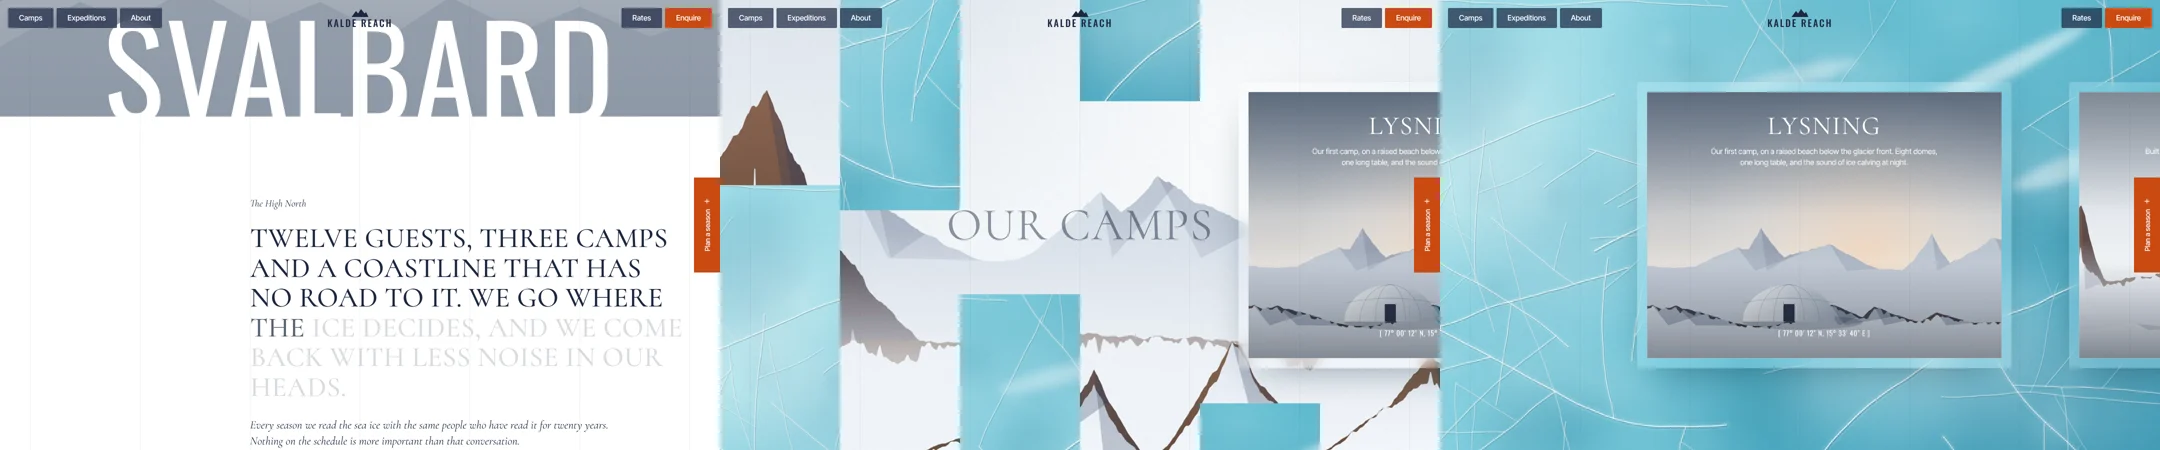
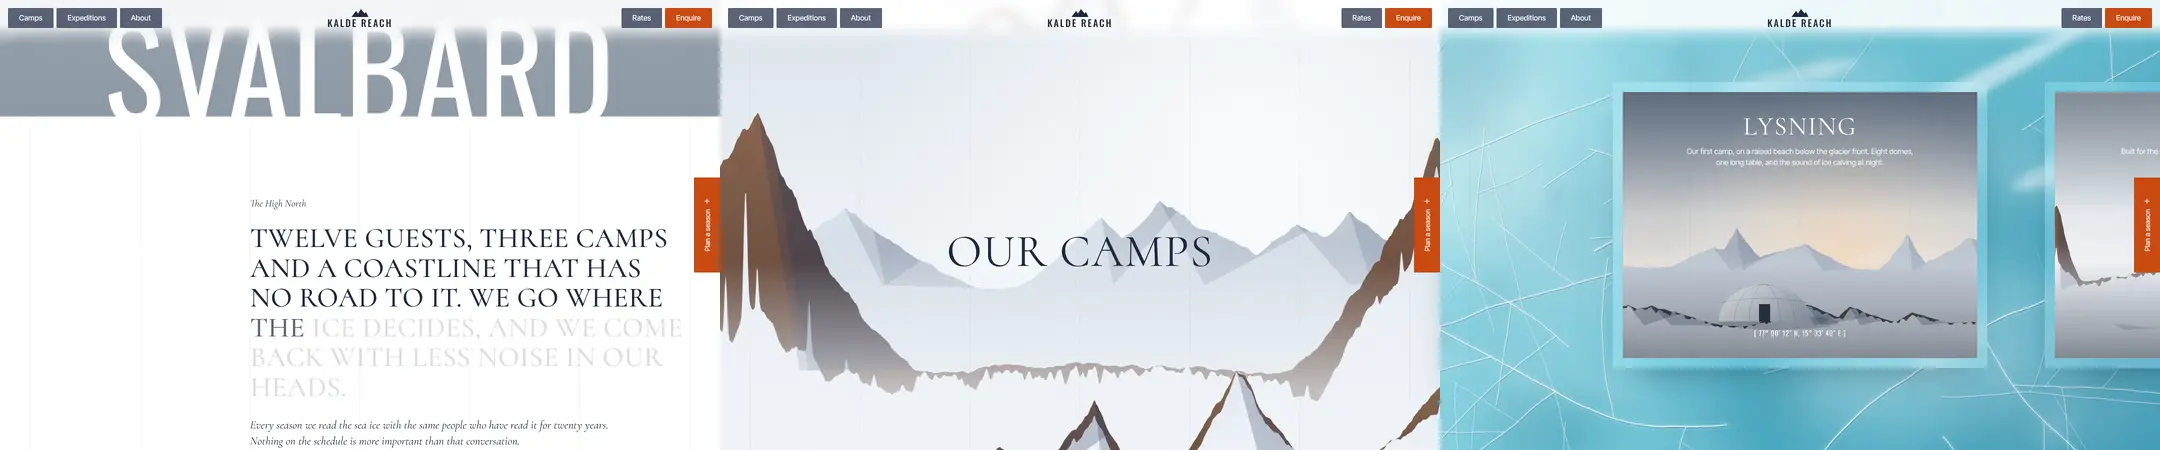
Improve scroll-scrub-story-skill: 37 → 38/40 (camp cards hold centred, header band)
Pinned card track now holds each card centred and only moves between
holds, starting fully off screen; the fixed header gets a frosted band so
headlines no longer run through the logo. verify-demo learned a
fixed-chrome check that fails when page text sits under unbacked text in
a fixed element.

Claude-Session: https://claude.ai/code/session_01XdASbRog22jE6xUYCS6WyS

Changed region(s): [[0.0, 0.0, 0.6824, 1.0], [0.7444, 0.1867, 1.0, 0.8089], [0.6514, 0.0, 1.0, 0.0933]]

diff --git a/skills/scroll-scrub-story-skill/demo/index.html b/skills/scroll-scrub-story-skill/demo/index.html
@@ -51,6 +51,13 @@
     position: fixed; inset: 16px 16px auto; z-index: 50;
     display: grid; grid-template-columns: 1fr auto 1fr; align-items: center;
   }
+  /* A frosted band behind the fixed header: headlines and cards scroll under the logo, never through it */
+  .top::before {
+    content: ''; position: fixed; inset: 0 0 auto; height: 96px; z-index: -1; pointer-events: none;
+    background: linear-gradient(color-mix(in srgb, var(--paper) 88%, transparent) 50%, transparent);
+    -webkit-backdrop-filter: blur(10px); backdrop-filter: blur(10px);
+    -webkit-mask: linear-gradient(#000 55%, transparent); mask: linear-gradient(#000 55%, transparent);
+  }
   .chips { display: flex; gap: 6px; }
   .chips:last-child { justify-content: flex-end; }
   .chip {
@@ -167,11 +174,15 @@
   .motion .camps__note { position: absolute; left: 0; right: 0; bottom: 7vh; margin: 0 auto; opacity: clamp(0, calc(var(--a) * 4 - 3 - var(--b) * 6), 1); }
   .motion .camps__track {
     position: absolute; top: 50%; left: var(--start); display: flex; gap: var(--gap); padding: 0; align-items: center;
-    /* starts peeking in at --start, ends with the last card centred: travel = start - 50vw + (n - 1)(card + gap) + card / 2 */
-    transform: translate(calc(var(--b) * -1 * (var(--start) - 50vw + (var(--n) - 1) * (var(--cw) + var(--gap)) + var(--cw) / 2)), -50%);
+    /* Enter, then hold each card centred for a reading stretch; cards only move between holds.
+       --e brings card 1 from --start to the centre; --m1, --m2 each slide one card width + gap. */
+    --e: clamp(0, calc(var(--b) / .2), 1);
+    --m1: clamp(0, calc((var(--b) - .36) / .2), 1);
+    --m2: clamp(0, calc((var(--b) - .72) / .2), 1);
+    transform: translate(calc(-1 * (var(--e) * (var(--start) - 50vw + var(--cw) / 2) + (var(--m1) + var(--m2)) * (var(--cw) + var(--gap)))), -50%);
   }
   .motion .frost { flex: none; width: var(--cw); }
-  .camps { --cw: min(52vw, 760px); --gap: 8vw; --n: 3; --start: 72vw; }
+  .camps { --cw: min(52vw, 760px); --gap: 8vw; --start: 100vw; } /* starts fully off screen: a peeking card would share the screen with the title. Three cards: holds at b .2–.36, .56–.72, .92–1 */
 
   /* ---------- Trips: panels that open on hover / focus ---------- */
   .trips { padding: clamp(110px, 16vh, 170px) var(--gutter) clamp(90px, 12vh, 140px); }
@@ -222,7 +233,8 @@
     .hero__line { top: 34%; }
     .hero__film { top: auto; left: var(--gutter); right: auto; bottom: 30%; }
     .letter__inner { margin-left: 0; }
-    .camps { --cw: 84vw; --gap: 6vw; --start: 88vw; }
+    .camps { --cw: 84vw; --gap: 6vw; }
+    .top::before { height: 76px; }
     .motion .camps__strips { grid-template-columns: repeat(6, 1fr); }
     .card { aspect-ratio: 3 / 4; }
     .trips__head, .enquire__grid { grid-template-columns: 1fr; }

diff --git a/skills/scroll-scrub-story-skill/SKILL.md b/skills/scroll-scrub-story-skill/SKILL.md
@@ -20,7 +20,7 @@ Use this skill when the brief says: "story", "chapters", "cinematic", "luxury", 
 3. **Initial value 1 is the safety net.** With no JS, no support, or reduced motion, `--p` stays at 1 and every section shows its finished state. Nothing can get stuck invisible.
 4. **Light words, do not move them.** Statement words go from opacity 0.16 to 1, three words of overlap (`p * (n + 3) - i`). No slide, no blur, no per-letter split: the sentence stays readable as a block from the first pixel.
 5. **Pin once.** One pinned scene per page, about 5 viewports tall (`520svh`). Pins everywhere feel like a slideshow you cannot skip.
-6. **Phases inside the pin.** Split the pinned `--p` into named sub-ranges in CSS: `--a` = strips wipe (0 to 0.28), `--b` = card track (0.26 to 1). The overlap means something is always moving; a stretch of empty frame reads as broken.
+6. **Phases inside the pin, holds inside the phases.** Split the pinned `--p` into named sub-ranges in CSS: `--a` = strips wipe (0 to 0.28), `--b` = card track (0.26 to 1). The overlap means the frame is never empty. Inside the track, each card holds centred for a stretch of scroll (`b` 0.2 to 0.36, 0.56 to 0.72, 0.92 to 1) and only moves between holds: a track that glides linearly parks the reader on two half-cut cards at most scroll positions. For n cards, use one `--m` per card after the first and split `b` into an entry, n holds and n - 1 moves of about equal length.
 7. **Strips alternate.** Six vertical strips, odd ones from below and even ones from above (`--dir: ±1`), staggered by 0.12 of the phase each. Each strip shows its own slice of the incoming image (`background-position: calc(k * -100vw / 6)`), so together they assemble one picture, not six.
 8. **The frame opens, the photo settles.** The inset image's `clip-path: inset()` shrinks from 9 percent and a gutter-wide side margin to 0, while the image inside scales from 1.14 to 1. Two opposite movements read as depth.
 9. **Type pairing does the luxury.** A tall condensed sans for the place name (Oswald 400, 17.6vw, letter-spacing 0.02em, cropped by the fold), a high-contrast serif for statements and titles (Cormorant 500, uppercase), and a neutral grotesk for UI (Inter Tight 500, 15px). Italic serif for captions and asides.
@@ -167,18 +167,35 @@ The pinned scene. Everything under `.motion` only applies when JS confirmed that
 .motion .camps__note { position: absolute; left: 0; right: 0; bottom: 7vh; margin: 0 auto; opacity: clamp(0, calc(var(--a) * 4 - 3 - var(--b) * 6), 1); }
 .motion .camps__track {
   position: absolute; top: 50%; left: var(--start); display: flex; gap: var(--gap); padding: 0; align-items: center;
-  /* starts peeking in at --start, ends with the last card centred: travel = start - 50vw + (n - 1)(card + gap) + card / 2 */
-  transform: translate(calc(var(--b) * -1 * (var(--start) - 50vw + (var(--n) - 1) * (var(--cw) + var(--gap)) + var(--cw) / 2)), -50%);
+  /* Enter, then hold each card centred for a reading stretch; cards only move between holds.
+     --e brings card 1 from --start to the centre; --m1, --m2 each slide one card width + gap. */
+  --e: clamp(0, calc(var(--b) / .2), 1);
+  --m1: clamp(0, calc((var(--b) - .36) / .2), 1);
+  --m2: clamp(0, calc((var(--b) - .72) / .2), 1);
+  transform: translate(calc(-1 * (var(--e) * (var(--start) - 50vw + var(--cw) / 2) + (var(--m1) + var(--m2)) * (var(--cw) + var(--gap)))), -50%);
 }
 .motion .frost { flex: none; width: var(--cw); }
-.camps { --cw: min(52vw, 760px); --gap: 8vw; --n: 3; --start: 72vw; }
+.camps { --cw: min(52vw, 760px); --gap: 8vw; --start: 100vw; } /* starts fully off screen: a peeking card would share the screen with the title. Three cards: holds at b .2–.36, .56–.72, .92–1 */
+```
+
+Fixed header over a scrolling story: give it a band of its own, or headlines and cards scroll straight through the logo (`.top` is the fixed header, `z-index: 50`):
+
+```css
+/* A frosted band behind the fixed header: headlines and cards scroll under the logo, never through it */
+.top::before {
+  content: ''; position: fixed; inset: 0 0 auto; height: 96px; z-index: -1; pointer-events: none;
+  background: linear-gradient(color-mix(in srgb, var(--paper) 88%, transparent) 50%, transparent);
+  -webkit-backdrop-filter: blur(10px); backdrop-filter: blur(10px);
+  -webkit-mask: linear-gradient(#000 55%, transparent); mask: linear-gradient(#000 55%, transparent);
+}
 ```
 
 Mobile overrides:
 
 ```css
-.camps { --cw: 84vw; --gap: 6vw; --start: 88vw; }
+.camps { --cw: 84vw; --gap: 6vw; }
 .card { aspect-ratio: 3 / 4; }
+.top::before { height: 76px; }
 ```
 
 ---
@@ -474,6 +491,9 @@ Painting lessons learned:
 - Words that slide, blur or bounce in. Lighting words is enough.
 - Three pinned sections in a row. One pin, earned.
 - A pinned scene with an empty middle: strips finish, then nothing until the next card. Overlap the phases.
+- A card track that glides at constant speed. Most scroll positions then show two half-cut cards and no readable one. Hold each card centred, move between holds.
+- A card peeking in from the edge while the scene title is still up: two statements on one screen, and on a phone a stray sliver of box. Start the track fully off screen.
+- A transparent fixed header over long editorial copy: the headline runs through the logo.
 - Strips that all move in one direction or each show the whole image (six tiny copies instead of one picture).
 - Text in white on light snow or sky photos with no scrim or chip.
 - `initial-value: 0` on the progress property: no JS or no support leaves the page blank.
@@ -485,14 +505,15 @@ Painting lessons learned:
 
 [`demo/index.html`](demo/index.html) is a complete single-file page for an invented Arctic expedition company, Kalde Reach (Tromsø): fog hero with a huge condensed "SVALBARD", a founder's statement that lights word by word with a drawn signature, an inset landscape that opens to full bleed, a pinned camps scene (landscape replaced by six alternating strips of sea ice, then three frosted camp cards gliding across), expedition panels that open on hover and focus, and an enquiry footer. All imagery is generated on canvas at load.
 
-Verified with `node scripts/verify-demo.mjs skills/scroll-scrub-story-skill/demo` (desktop, mobile and reduced motion; no console errors, no failed requests, no horizontal overflow), plus 36-stop desktop and 22-stop mobile scroll sweeps in native mode, the forced JS fallback, and a reduced-motion sweep through the middle of the page.
+Verified with `node scripts/verify-demo.mjs skills/scroll-scrub-story-skill/demo --stops 16` (desktop, phones at 360/390/430, reduced motion at every stop, forced fallback, host reset, keyboard focus, text under fixed chrome), plus 36-stop desktop and 22-stop mobile scroll sweeps in native mode, the forced JS fallback, and a reduced-motion sweep through the middle of the page.
 
 ![Demo preview](demo/preview.webp)
 
 Lessons learned while building it (already folded into the rules above):
 
 - The first generated landscapes were thin brown bands over streaky snow. Path fills plus poster-style shadow faces fixed both.
-- With the card phase starting after the strips, two whole frames showed empty ice. Starting the track already peeking in at 72vw and overlapping the phases removed the dead stretch.
+- With the card phase starting after the strips, two whole frames showed empty ice. Overlapping the phases removed the dead stretch. (A first fix started the track peeking in at 72vw; the improvement run replaced that with an off-screen start, because the sliver shared the screen with the title.)
+- (Improvement run, 2026-10-09) The track glided linearly, so most mobile stops showed two cut cards. Each card now holds centred for 16 to 8 percent of the track. The fixed header had no backing and headlines scrolled through the logo on phones; it now has a frosted band, and verify-demo fails on text under unbacked fixed chrome.
 - White captions and a white "OUR CAMPS" over light snow failed contrast. Captions moved onto frosted chips, the title went navy with a white glow.
 - A fixed side tab sat on top of the statement on mobile. It is hidden below 820px; the header's Enquire chip covers the same job.
 - In the static (reduced motion) flow, `background-size: cover` stretched the ice across a very tall section and fattened every crack. It now tiles at its native 1600px.
@@ -511,3 +532,5 @@ Before shipping, answer yes to all:
 5. Does every line of text over an image have a scrim or a frosted chip?
 6. Does anchor navigation (`#camps`, `#enquire`) still land correctly, with native scrolling?
 7. Mobile: do the cards fit (84vw), and does nothing fixed sit on top of body copy?
+8. At every stop of a `--stops 30` sweep inside the pin, is there either one whole card centred or a moving transition, never two cut cards held still?
+9. Does the fixed header have its own backing band, so verify-demo's chrome check passes?

diff --git a/lessons/PROTOCOL.md b/lessons/PROTOCOL.md
@@ -51,7 +51,7 @@ In the morning, section 1 is replaced by `NEXT.md` when its date is today and it
 node scripts/verify-demo.mjs skills/<slug>-skill/demo /tmp/verify
 ```
 
-It must print `OK`. It runs desktop, phones at 360/390/430, reduced motion at every scroll stop, and a forced-fallback pass (WebGL unavailable, `CSS.supports()` false), and fails on page errors, console errors, failed requests, horizontal overflow at any stop, any element Tab reaches without a visible focus change, a phone layout viewport wider than the phone, scroll past the end of the content, and a body background or text that changes when a host page styles `<body>`. For pinned or scrubbed sections add `--stops 30`. With ImageMagick installed it writes `sheet-<pass>.jpg` contact sheets, one row per pass.
+It must print `OK`. It runs desktop, phones at 360/390/430, reduced motion at every scroll stop, and a forced-fallback pass (WebGL unavailable, `CSS.supports()` false), and fails on page errors, console errors, failed requests, horizontal overflow at any stop, any element Tab reaches without a visible focus change, a phone layout viewport wider than the phone, scroll past the end of the content, a body background or text that changes when a host page styles `<body>`, and page text that scrolls under unbacked text in fixed chrome. For pinned or scrubbed sections add `--stops 30`. With ImageMagick installed it writes `sheet-<pass>.jpg` contact sheets, one row per pass.
 
 Then **look at every contact sheet, including the fallback and reduced ones** and write down at least three visual flaws (overlaps, unreadable text over busy backgrounds, awkward wraps, dead space, mobile cramping, motion parked mid-transition). Fix them and verify again. Repeat until a fresh look finds nothing worth fixing. Fold what you learned into the skill's "Working Demo" notes so the next agent does not repeat it.
 
@@ -95,3 +95,4 @@ If today taught something about *how* to run these lessons (a better capture tri
 - 2026-10-08 (improve): The new host check (page loaded under a stand-in for a viewer's body reset, every text box compared) found the same dark-text bug in the lesson 001 demo that had only shown on the owner's phone in Mörkerdal. verify-demo's forced fallback only disables WebGL; for a 2D-canvas effect, also look at the page once with `getContext` returning `null`.
 - 2026-10-08 (owner report): The republished Halcyon artifact was a white screen on a desktop. The demo set its dark background on `html` only; the viewer paints its light background on `body`, which covers the root, and the light text vanished on it. The host check only compared text, so it passed. It now compares the body background too and fails on the old demo.
 - 2026-10-09: With `mix-blend-mode: difference` text, the color a reader sees is the inverse of what is under it; compute that inverse's contrast for every hero color (a vivid cobalt gave 4.1:1). And `container-type` on a wrapper makes `position: fixed` children scroll with it: keep fixed chrome outside container wrappers.
+- 2026-10-09 (improve): The lesson 003 header was transparent: at most mobile stops a headline or price ran through the logo, and nothing flagged it. verify-demo now samples every unbacked text box in fixed elements at every stop and fails when page text sits under it. Also look at a pinned card track at many stops: a linear glide passed every check while showing two half-cut cards most of the time.

diff --git a/lessons/README.md b/lessons/README.md
@@ -25,7 +25,7 @@ The full, reusable version of each lesson lives in `skills/<slug>-skill/` with a
 | --- | --- | --- | --- | --- | --- | --- |
 | 001 | 2026-10-07 | [Particle morph hero](2026-10-07-particle-morph-hero.md) | WebGL and 3D | getlayers.ai "Vesper" template | [`particle-morph-skill`](../skills/particle-morph-skill/SKILL.md) | 34 → 38/40 |
 | 002 | 2026-10-07 | [Dither tile grid](2026-10-07-dither-tile-grid.md) | Imagery and art direction | aspensearch.com (Awwwards SOTD, 15 Sep 2026) | [`dither-tile-skill`](../skills/dither-tile-skill/SKILL.md) | 36 → 38/40 |
-| 003 | 2026-10-08 | [Scroll scrub story](2026-10-08-scroll-scrub-story.md) | Scroll motion | white-desert.com (Awwwards SOTD, 11 Sep 2026) | [`scroll-scrub-story-skill`](../skills/scroll-scrub-story-skill/SKILL.md) | 37/40 |
+| 003 | 2026-10-08 | [Scroll scrub story](2026-10-08-scroll-scrub-story.md) | Scroll motion | white-desert.com (Awwwards SOTD, 11 Sep 2026) | [`scroll-scrub-story-skill`](../skills/scroll-scrub-story-skill/SKILL.md) | 37 → 38/40 |
 | 004 | 2026-10-09 | [Swiss grid typography](2026-10-09-swiss-grid-type.md) | Typography | twks.ch (Awwwards SOTD, 7 Oct 2026) | [`swiss-grid-type-skill`](../skills/swiss-grid-type-skill/SKILL.md) | 38/40 |
 
 ## Improvement log
@@ -34,3 +34,4 @@ The full, reusable version of each lesson lives in `skills/<slug>-skill/` with a
 | --- | --- | --- | --- | --- |
 | 2026-10-08 | particle-morph-skill | 34 → 38/40 | Shapes now hold at every reading stop, with one statement per screen behind a scrim (before: two headlines over a bare, half-formed galaxy); plus a light nav over the paper section, a 2D-canvas orb still for the plate and the no-WebGL fallback, per-shape fit so the galaxy never clips at 360px, and a device-true stat | verify-demo learned reduced motion at every stop, a forced-fallback pass (no WebGL, `CSS.supports` false), 360/430 widths, overflow at every stop, a keyboard focus-visibility check, `--stops N` and contact sheets; three new principles (fixed chrome flips with sections, one statement per screen, device-true copy) and code spliced from the demo |
 | 2026-10-08 | dither-tile-skill | 36 → 38/40 | Without canvas every tile was the same gray fade; a `--shape` mask per field now prints the subject (sphere, rings, swell, ridge, dawn) as a CSS halftone. Also lifted the ridge foreground out of solid ink | verify-demo learned a host check: the page is loaded under a stand-in for a viewer's `<body>` reset and every text box is compared; it found and fixed the same dark-text bug in the lesson 001 demo. New principle: style the body, not only the root |
+| 2026-10-09 | scroll-scrub-story-skill | 37 → 38/40 | The pinned camp cards now hold centred at reading stops (before: a linear glide showed two half-cut cards at most stops, plus a card sliver next to the title); the transparent header got a frosted band so headlines and prices no longer run through the logo on phones | verify-demo learned a fixed-chrome check: at every stop it samples unbacked text inside fixed elements and fails when page text sits under it (it flags the old demo in every pass). Principles 1 and 4 sharpened |

diff --git a/lessons/PRINCIPLES.md b/lessons/PRINCIPLES.md
@@ -4,10 +4,10 @@ Rules distilled from every lesson so far. Each one has shown up more than once, 
 
 ## Look
 
-1. **Never park the reader between states.** Any section where text must be read holds a settled visual state. Transitions happen between reading stops, never under them. (001 mid-morph noise, 003 pinned sections)
+1. **Never park the reader between states.** Any section where text must be read holds a settled visual state. Transitions happen between reading stops, never under them. A card track or carousel driven by scroll holds each item centred and moves only between holds; a linear glide shows two half-cut items at most positions. (001 mid-morph noise, 003 pinned sections and card track)
 2. **Text over moving or busy imagery gets a scrim.** A soft gradient under the text block, never a solid box. (001 stats row)
 3. **One loud thing per screen.** The visual or the headline carries weight, not both; light type next to heavy motion.
-4. **Contrast sections on purpose.** A light editorial break makes dark sections feel deep, and the reverse. Fixed chrome (nav, frame, cursor) must flip with it: a dark glass pill over a light section reads as a grey smear. (001)
+4. **Contrast sections on purpose.** A light editorial break makes dark sections feel deep, and the reverse. Fixed chrome (nav, frame, cursor) must flip with it: a dark glass pill over a light section reads as a grey smear. Fixed chrome whose text has no backing needs a frosted band, or headlines scroll through the logo; verify-demo fails on it. (001, 003)
 5. **One statement per screen.** Two sections whose text sits on adjacent edges show up together. Put empty space on one side of every section boundary. (001, 003)
 6. **Copy tells the truth on the device reading it.** Numbers that depend on tier, locale or feature support are written by the code that knows them. (001 "80k points" on phones)
 
